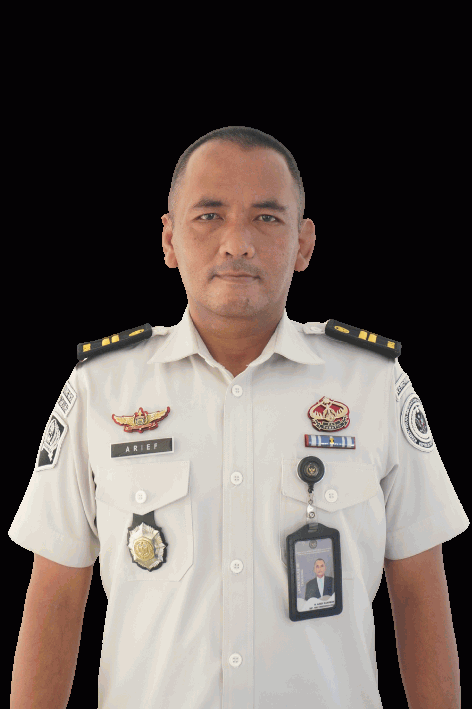
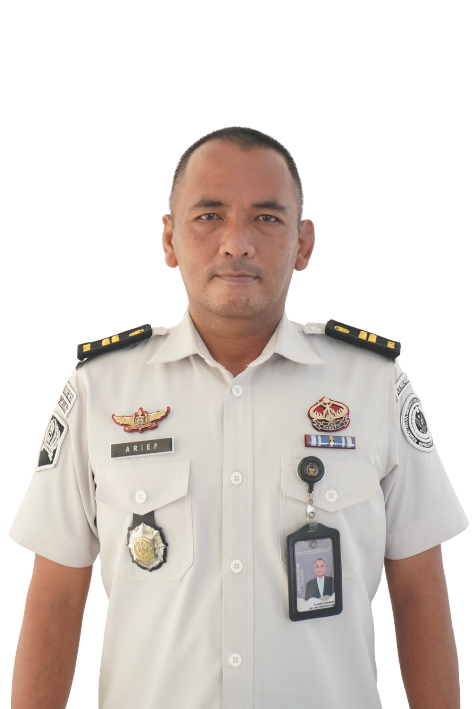
23/11/2026

diff --git a/index.php b/index.php
@@ -292,7 +292,7 @@ $stmt_pop->close();
           <div class="pejabat-ketua-avatar">
             <div class="avatar-ring"></div>
             <div class="avatar-inner">
-              <img src="foto pejabat/raymond andika girsang.png?v=2" alt="Raymond Andika Girsang"
+              <img src="Foto Pejabat/raymond andika girsang.png?v=<?= filemtime(__DIR__ . '/Foto Pejabat/raymond andika girsang.png') ?>" alt="Raymond Andika Girsang"
                 onclick="openLightbox(this.src, 'Raymon Andika Girsang, A.Md.IP., S.H., M.H. — Kepala Rutan')"
                 style="width:190px;height:190px;object-fit:cover;border-radius:50%;cursor:zoom-in;transition:transform .2s;"
                 onmouseover="this.style.transform='scale(1.05)'" onmouseout="this.style.transform='scale(1)'" />
@@ -1083,6 +1083,7 @@ $stmt_pop->close();
       if (p) {
         p.classList.remove('active');
         document.body.style.overflow = '';
+        localStorage.setItem('rutan_popup_last_time', Date.now().toString());
       }
     }
 
@@ -1094,11 +1095,24 @@ $stmt_pop->close();
       }
     });
 
-    // Otomatis muncul saat web dibuka — selalu muncul kembali saat halaman di-refresh
+    // Otomatis muncul: hanya saat pertama kali buka web (sesi baru)
+    // ATAU jika sudah lebih dari 10 menit kemudian halaman di-refresh / dikunjungi lagi
     window.addEventListener('load', () => {
-      setTimeout(() => {
-        openPopupAds();
-      }, 400);
+      const TEN_MINUTES_MS = 10 * 60 * 1000; // 10 menit = 600.000 ms
+      const lastTime = parseInt(localStorage.getItem('rutan_popup_last_time') || '0', 10);
+      const sessionSeen = sessionStorage.getItem('rutan_popup_session_seen');
+      const now = Date.now();
+
+      const isNewSession = !sessionSeen; // Sesi tab baru (misal setelah keluar dari web)
+      const isTenMinutesPassed = (now - lastTime) >= TEN_MINUTES_MS; // Lebih dari 10 menit
+
+      if (isNewSession || isTenMinutesPassed) {
+        setTimeout(() => {
+          openPopupAds();
+          localStorage.setItem('rutan_popup_last_time', Date.now().toString());
+          sessionStorage.setItem('rutan_popup_session_seen', '1');
+        }, 400);
+      }
     });
   </script>
 </body>
